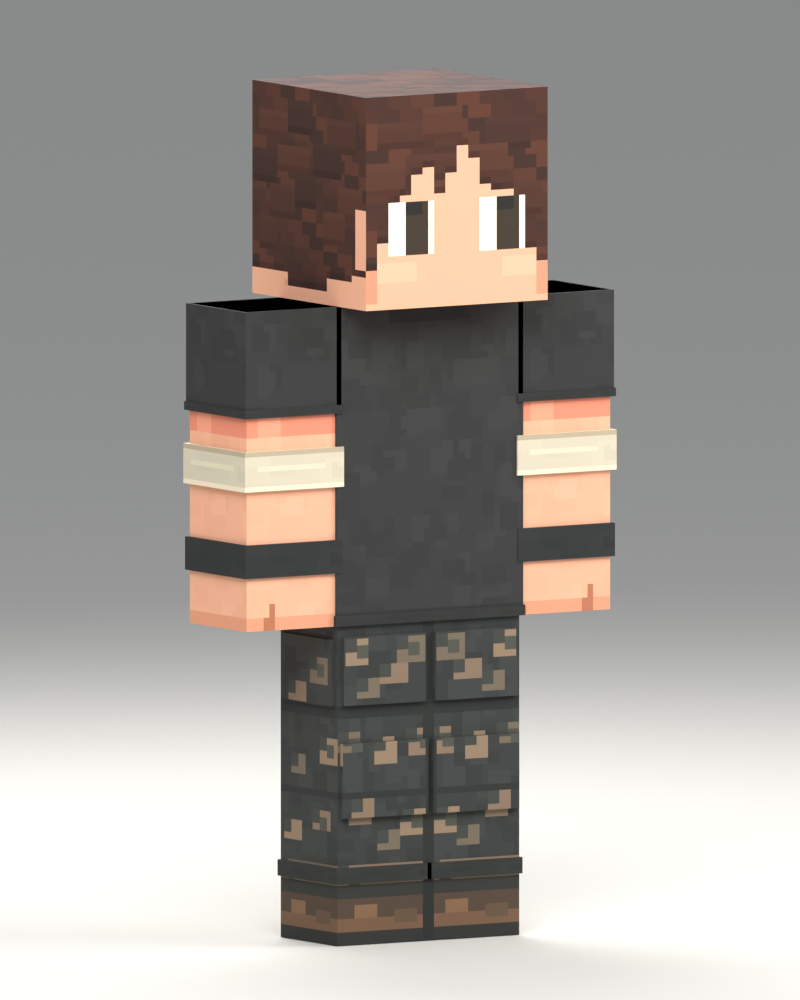
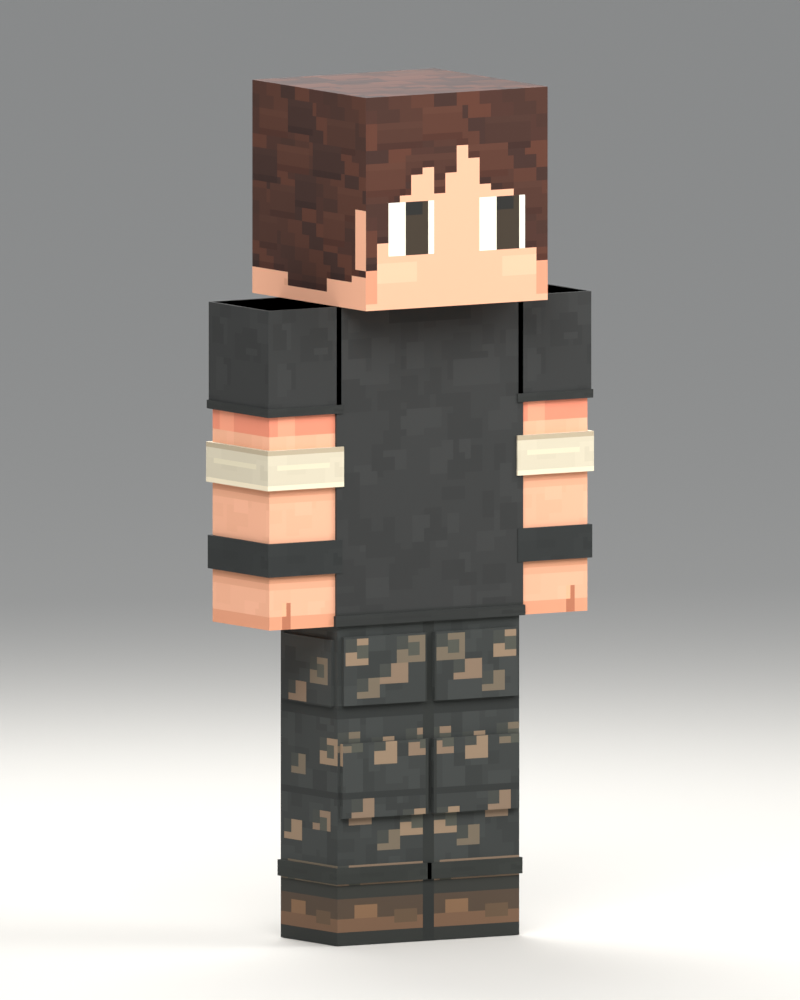
chore(project): revise 7 project files
Modified: 7.
Text lines: +56 / -22; binary files: 3.
- Modify: "blender/characters/player/reviews/survivor_reference_v001/Survivor_Reference_v001.blend"
- Modify: "blender/characters/player/reviews/survivor_reference_v001/build_candidate.py"
- Modify: "blender/characters/player/reviews/survivor_reference_v001/make_atlas.py"
- Modify: "blender/characters/player/reviews/survivor_reference_v001/model_validation.json"
- Modify: "blender/characters/player/reviews/survivor_reference_v001/renders/Front.png" (binary)
- Modify: "blender/characters/player/reviews/survivor_reference_v001/renders/Front_3Q.png" (binary)
- Modify: "blender/characters/player/reviews/survivor_reference_v001/survivor_atlas.png" (binary)

Changed region(s): [[0.2188, 0.279, 0.375, 0.651], [0.6562, 0.279, 0.7812, 0.62], [0.375, 0.558, 0.4062, 0.589]]

diff --git a/blender/characters/player/reviews/survivor_reference_v001/build_candidate.py b/blender/characters/player/reviews/survivor_reference_v001/build_candidate.py
@@ -19,7 +19,7 @@ bpy.ops.wm.read_factory_settings(use_empty=True)
 bpy.context.preferences.filepaths.save_version=0
 scene=bpy.context.scene;scene.name='Survivor Skin Review — PENDING'
 scene['review_status']='Pending';scene['candidate']='Survivor_Reference_v001'
-scene['scope']='Original six cuboids unchanged; skin plus requested3D shirt, bands and trouser relief; no Godot'
+scene['scope']='Original head/body/legs; restored3x12x4 slim arms; skin and requested3D clothes; no Godot'
 scene.unit_settings.system='METRIC';scene.unit_settings.scale_length=1.
 asset=bpy.data.collections.new('ASSET — original body / new skin (Pending)');scene.collection.children.link(asset)
 preview=bpy.data.collections.new('REVIEW — cameras and studio');scene.collection.children.link(preview)
@@ -39,6 +39,27 @@ def geometry_signature(mesh):
 original_geometry=geometry_signature(character.data)
 original_rest={b.name:list(x for row in b.matrix_local for x in row) for b in rig.data.bones}
 original_weights=[[(g.group,g.weight) for g in v.groups] for v in character.data.vertices]
+# Restore the documented older slim-arm width:3x12x4 rather than4x12x4.
+# Keep each inner shoulder face attached to the unchanged torso; only arm width
+# and arm pivot X change. Head, torso, legs, arm length/depth and weights stay exact.
+original_nonarm=[tuple(v.co) for v in character.data.vertices if not character.vertex_groups[v.groups[0].group].name.startswith('Arm.')]
+for v in character.data.vertices:
+ name=character.vertex_groups[v.groups[0].group].name
+ if name.startswith('Arm.'):
+  sign=1 if name.endswith('.L') else -1
+  v.co.x=sign*.225+(v.co.x-sign*.225)*.75
+character.data.update()
+bpy.context.view_layer.objects.active=rig;rig.select_set(True)
+bpy.ops.object.mode_set(mode='EDIT')
+for side,sign in [('L',1),('R',-1)]:
+ b=rig.data.edit_bones['Arm.'+side];b.head.x=sign*.309375;b.tail.x=sign*.309375
+bpy.ops.object.mode_set(mode='OBJECT')
+for pb in rig.pose.bones:pb.matrix_basis=Matrix.Identity(4)
+adapted_geometry=geometry_signature(character.data)
+assert original_nonarm==[tuple(v.co) for v in character.data.vertices if not character.vertex_groups[v.groups[0].group].name.startswith('Arm.')]
+for b in rig.data.bones:
+ if not b.name.startswith('Arm.'):assert original_rest[b.name]==list(x for row in b.matrix_local for x in row)
+
 regions=json.loads((OUT/'atlas_regions.json').read_text())
 image=bpy.data.images.load(str(OUT/'survivor_atlas.png'));image.name='Survivor — original hand-painted skin';image.pack()
 material=bpy.data.materials.new('Survivor Skin — opaque / nearest');material.use_nodes=True
@@ -134,11 +155,11 @@ def ring(name,cx,cy,cz,inner_w,inner_d,thickness,height,bone,tile):
 cloth_box('Black shirt / thin external layer',(0,0,1.0125),(.462,.237,.675),'Chest','shirt3d_edge')
 ring('Shirt lower hem',0,0,.686,.462,.237,.0035,.022,'Chest','shirt3d_edge')
 for side,sign in [('L',1),('R',-1)]:
- cx=sign*.3375
- cloth_box('Black short sleeve '+side,(cx,0,1.2375),(.237,.237,.225),'Arm.'+side,'shirt3d_edge')
- ring('Sleeve hem '+side,cx,0,1.134,.237,.237,.003,.018,'Arm.'+side,'shirt3d_edge')
- ring('White forearm wrap '+side,cx,0,1.0125,.225,.225,.010,.084375,'Arm.'+side,'wrap3d')
- ring('Black wrist band '+side,cx,0,.82265625,.225,.225,.0075,.0703125,'Arm.'+side,'band3d')
+ cx=sign*.309375
+ cloth_box('Black short sleeve '+side,(cx,0,1.2375),(.18075,.237,.225),'Arm.'+side,'shirt3d_edge')
+ ring('Sleeve hem '+side,cx,0,1.134,.18075,.237,.003,.018,'Arm.'+side,'shirt3d_edge')
+ ring('White forearm wrap '+side,cx,0,1.0125,.16875,.225,.010,.084375,'Arm.'+side,'wrap3d')
+ ring('Black wrist band '+side,cx,0,.82265625,.16875,.225,.0075,.0703125,'Arm.'+side,'band3d')
  # Broad stepped fabric panels,6–10mm relief; no added bag or redesigned limb.
  lx=sign*.1125
  cloth_box('Raised upper trouser panel '+side,(lx,-.1175,.579),(.205,.010,.145),'Leg.'+side,'pants3d_edge')
@@ -156,18 +177,18 @@ clothes['scope']='Requested3D shirt / white-black arm rings / trouser relief onl
 clothes.data.calc_loop_triangles()
 
 # Nothing below changes any body vertex, face, normal, bone or skin weight.
-assert geometry_signature(character.data)==original_geometry
+assert geometry_signature(character.data)==adapted_geometry
 assert original_weights==[[(g.group,g.weight) for g in v.groups] for v in character.data.vertices]
-assert original_rest=={b.name:list(x for row in b.matrix_local for x in row) for b in rig.data.bones}
-character['review_status']='Pending';character['skin_only']=False;character['original_body_unchanged']=True;character['no_neck_geometry']=True
-character['body_geometry_sha256']=original_geometry;character['body_source']='blender/characters/player/cuboid/player_cuboid_v6.blend'
+assert all(original_rest[b.name]==list(x for row in b.matrix_local for x in row) for b in rig.data.bones if not b.name.startswith('Arm.'))
+character['review_status']='Pending';character['skin_only']=False;character['original_body_unchanged']=False;character['non_arm_original_geometry_exact']=True;character['slim_arm_dimensions_m']=[.16875,.675,.225];character['no_neck_geometry']=True
+character['body_geometry_sha256']=adapted_geometry;character['body_source']='blender/characters/player/cuboid/player_cuboid_v6.blend'
 character['primary_reference_sha256']=hashlib.sha256((OUT/'primary_reference.png').read_bytes()).hexdigest()
-asset.asset_mark();asset.asset_data.description='Pending skin and requested3D clothes on the original V6 body; eyes only, no nose or mouth.'
+asset.asset_mark();asset.asset_data.description='Pending skin and3D clothes on original V6 head/body/legs with documented3x12x4 slim arms; no neck/nose/mouth.'
 asset['review_status']='Pending'
 reference=bpy.data.images.load(str(OUT/'primary_reference.png'));reference.name='PRIMARY — supplied six-view character';reference.pack();reference.use_fake_user=True
 ref=bpy.data.objects.new('PRIMARY REFERENCE — viewport only',None);refs.objects.link(ref);ref.empty_display_type='IMAGE';ref.data=reference;ref.empty_display_size=2.5;ref.location=(2,1,1);ref.hide_render=True;ref.hide_set(True)
 notes=bpy.data.texts.new('START HERE — SKIN ONLY')
-notes.write('PENDING / Survivor Reference v001\nExact original six-cuboid V6 base mesh:48vertices, unchanged proportions and no neck.\nNew skin plus user-requested3D clothing: white/black arm bands, black shirt and trouser relief.\nLarge eyes only; no nose/mouth. Hair remains painted on the original head cube.\nNo new Action or Godot integration.\nCameras Front / Front_3Q / Left_Side / Back / Right_Side / Back_3Q.\nNumpad0: camera; F12: render. Images packed.\n')
+notes.write('PENDING / Survivor Reference v001\nOriginal V6 head/body/legs exact; older3x12x4 slim arms restored;48base vertices, no neck.\nNew skin plus user-requested3D clothing: white/black arm bands, black shirt and trouser relief.\nLarge eyes only; no nose/mouth. Hair remains painted on the original head cube.\nNo new Action or Godot integration.\nCameras Front / Front_3Q / Left_Side / Back / Right_Side / Back_3Q.\nNumpad0: camera; F12: render. Images packed.\n')
 
 def studio_mat(name,color):
  m=bpy.data.materials.new(name);m.diffuse_color=(*color,1);m.use_nodes=True
@@ -200,10 +221,10 @@ for m in list(bpy.data.materials):
  if m.users==0:bpy.data.materials.remove(m)
 for im in list(bpy.data.images):
  if im.users==0 and not im.use_fake_user:bpy.data.images.remove(im)
-scene['review_cameras']=json.dumps(list(views));scene['skin_only']=False;scene['original_body_unchanged']=True;scene['requested_clothing_relief']=True
+scene['review_cameras']=json.dumps(list(views));scene['skin_only']=False;scene['original_body_unchanged']=False;scene['non_arm_original_geometry_exact']=True;scene['slim_arms']=True;scene['requested_clothing_relief']=True
 bpy.ops.wm.save_as_mainfile(filepath=str(FILE),compress=True)
 character.data.calc_loop_triangles()
-report={'candidate':FILE.name,'status':'Pending','skin_only':False,'original_body_unchanged':True,'vertices':len(character.data.vertices),'triangles':len(character.data.loop_triangles),'quads':len(character.data.polygons),'materials':len(character.data.materials),'bones':len(rig.data.bones),'actions':len(bpy.data.actions),'body_source_sha256':source_hash,'body_geometry_sha256':original_geometry,'geometry_exact':geometry_signature(character.data)==original_geometry,'rest_skeleton_exact':True,'weights_exact':True,'no_neck_geometry':True,'no_nose_or_mouth':True,'added_3d_clothing_only':True,'clothing_vertices':len(clothes.data.vertices),'clothing_triangles':len(clothes.data.loop_triangles),'clothing_parts':['Black shirt and short sleeves','White forearm wraps','Black wrist bands','Trouser fabric panels and hems'],'volumetric_hair':False,'rigid_bounds_m':body_bounds,'packed_images':[im.name for im in bpy.data.images if im.packed_file],'review_cameras':list(views),'gameplay_integrated':False}
+report={'candidate':FILE.name,'status':'Pending','skin_only':False,'original_body_unchanged':False,'non_arm_original_geometry_exact':True,'slim_arm_dimensions_wld_m':[.16875,.675,.225],'slim_arm_reference':'blender/characters/player/cuboid/create_slim_arm_study.py (3x12x4)','vertices':len(character.data.vertices),'triangles':len(character.data.loop_triangles),'quads':len(character.data.polygons),'materials':len(character.data.materials),'bones':len(rig.data.bones),'actions':len(bpy.data.actions),'body_source_sha256':source_hash,'original_geometry_sha256':original_geometry,'body_geometry_sha256':adapted_geometry,'geometry_exact':False,'non_arm_geometry_exact':True,'non_arm_rest_skeleton_exact':True,'arm_pivots_seated_to_body':True,'weights_exact':True,'no_neck_geometry':True,'no_nose_or_mouth':True,'added_3d_clothing_only':True,'clothing_vertices':len(clothes.data.vertices),'clothing_triangles':len(clothes.data.loop_triangles),'clothing_parts':['Black shirt and short sleeves','White forearm wraps','Black wrist bands','Trouser fabric panels and hems'],'volumetric_hair':False,'rigid_bounds_m':body_bounds,'packed_images':[im.name for im in bpy.data.images if im.packed_file],'review_cameras':list(views),'gameplay_integrated':False}
 assert report['vertices']==48 and report['triangles']==72 and report['quads']==36 and report['actions']==0
 assert hashlib.sha256(SOURCE.read_bytes()).hexdigest()==source_hash
 (OUT/'model_validation.json').write_text(json.dumps(report,indent=2));print('MODEL_VALIDATION',json.dumps(report),flush=True)

diff --git a/blender/characters/player/reviews/survivor_reference_v001/make_atlas.py b/blender/characters/player/reviews/survivor_reference_v001/make_atlas.py
@@ -87,6 +87,9 @@ for side in ['L','R']:
   d.rectangle((0,16,15,18),fill=(228,137,108));d.rectangle((2,16,5,18),fill=(240,155,123))
   d.rectangle((0,21,15,26),fill=(205,195,171));d.rectangle((0,21,15,21),fill=(178,163,137));d.rectangle((0,26,15,26),fill=(233,220,193));d.rectangle((2,23,10,23),fill=(216,206,180))
   d.rectangle((0,35,15,39),fill=(34,37,36));d.rectangle((0,35,15,35),fill=(45,46,43))
+  # User-requested restrained skin contact shadows BELOW each3D ring.
+  d.rectangle((0,27,15,27),fill=(211,148,115));d.rectangle((0,28,15,28),fill=(226,163,130))
+  d.rectangle((0,40,15,40),fill=(207,145,111));d.rectangle((0,41,15,41),fill=(224,160,127))
   d.rectangle((0,46,15,47),fill=(220,150,116))
   if face=='front':
    x=11 if side=='L' else 3
